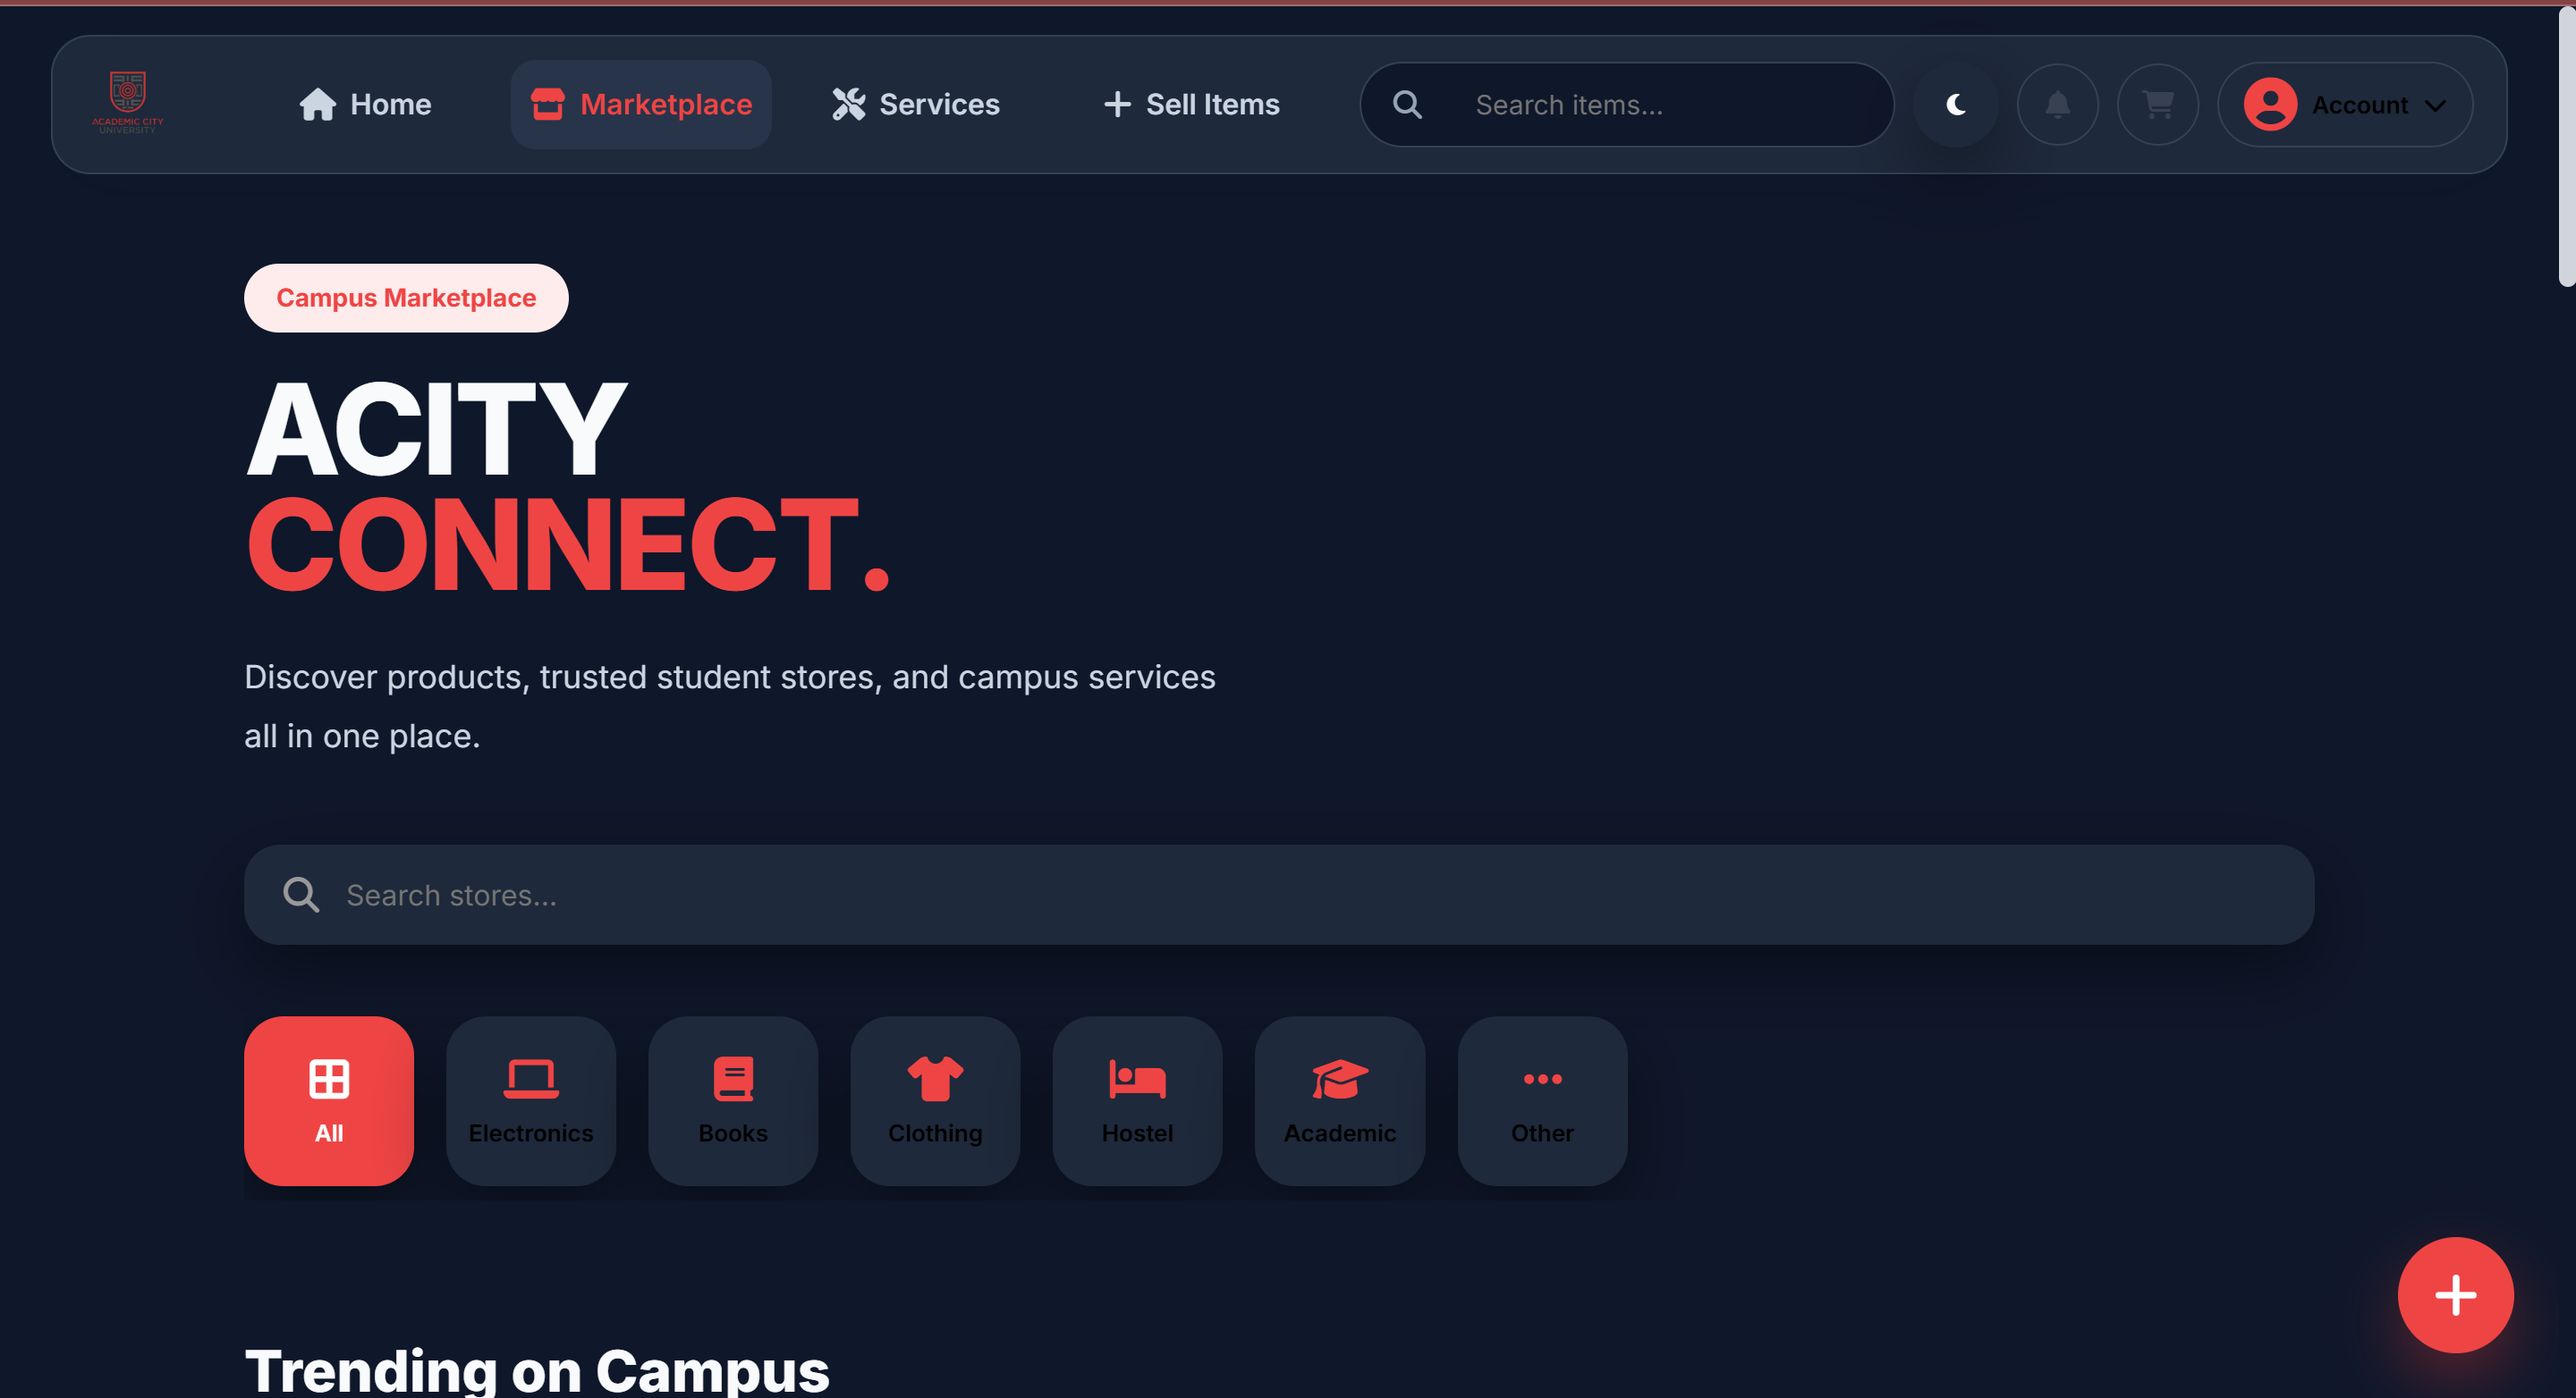
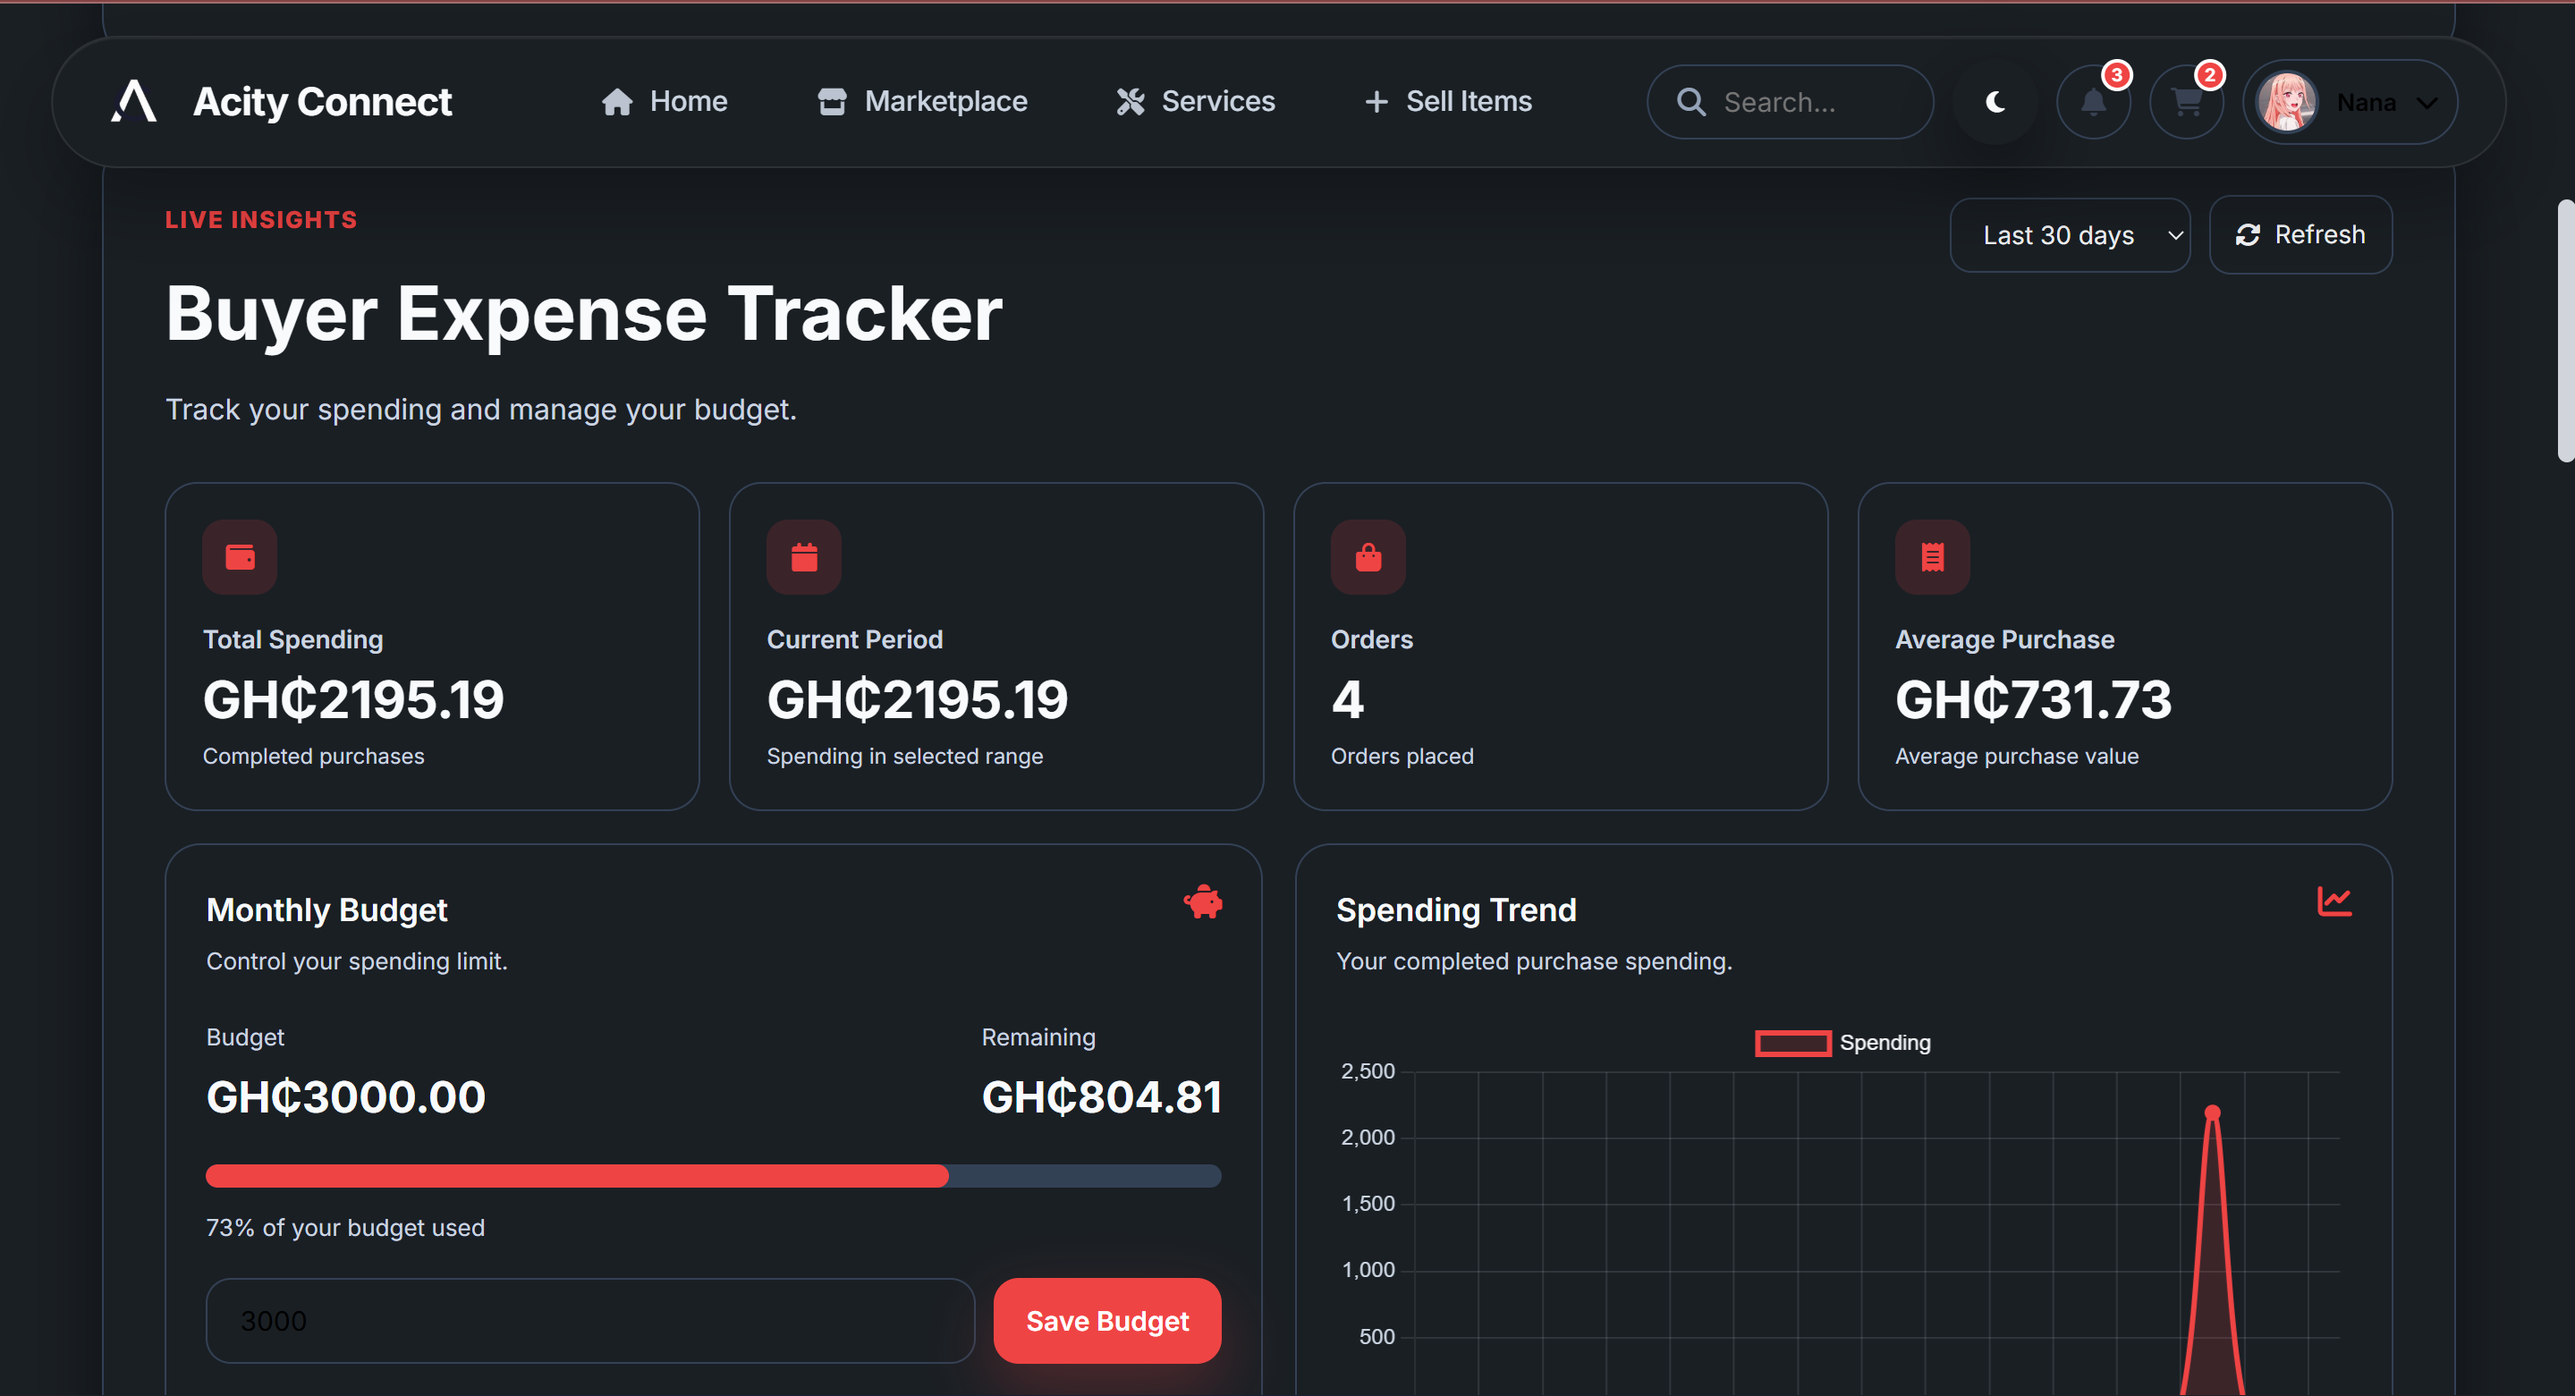
few changes

diff --git a/create-listing.html b/create-listing.html
@@ -133,126 +133,202 @@
     <i class="fa-solid fa-bars"></i>
 </button>
 </nav>
-<div class="mobile-links">
+<div
+    class="mobile-overlay"
+    id="mobileOverlay"
+></div>
+
+<div
+    class="mobile-menu"
+    id="mobileMenu"
+>
+    <div class="mobile-menu-header">
+        <div class="mobile-profile">
+            <div class="mobile-avatar">
+                <img
+                    id="mobileProfileImage"
+                    src="images/default-avatar-image.jpg"
+                    alt="Profile"
+                >
+            </div>
+
+            <div>
+                <h3 id="mobileUserName">
+                    Welcome
+                </h3>
+
+                <small id="mobileUserSubtitle">
+                    Sign in or create an account
+                </small>
+            </div>
+        </div>
+
+        <button
+            id="closeMenu"
+            class="close-menu"
+            type="button"
+        >
+            <i class="fa-solid fa-xmark"></i>
+        </button>
+    </div>
+
+    <div class="mobile-links">
+
         <a href="index.html">
             <i class="fa-solid fa-house"></i>
             Home
         </a>
-        <a href="login.html" id="mobileLoginLink" style="display:none;">
+
+        <a
+            href="login.html"
+            id="mobileLoginLink"
+            style="display:none;"
+        >
             <i class="fa-solid fa-right-to-bracket"></i>
             Login
         </a>
 
-        <a href="register.html" id="mobileRegisterLink" style="display:none;">
+        <a
+            href="register.html"
+            id="mobileRegisterLink"
+            style="display:none;"
+        >
             <i class="fa-solid fa-user-plus"></i>
             Register
         </a>
+
         <hr>
+
         <a href="marketplace.html">
             <i class="fa-solid fa-store"></i>
             Marketplace
         </a>
+
         <a href="services.html">
             <i class="fa-solid fa-screwdriver-wrench"></i>
             Skills Connect
         </a>
-        <a href="create-listing.html" id="mobileCreateListingLink" >
+
+        <a
+            href="create-listing.html"
+            id="mobileCreateListingLink"
+        >
             <i class="fa-solid fa-plus"></i>
             Sell Item
         </a>
-        <hr>
-        <a href="inbox.html" id="mobileInboxLink" >
-            <i class="fa-solid fa-comments"></i>
-            Inbox
-            <small id="mobileMessageCount"></small>
-        </a>
-        <a href="notifications.html" id="mobileNotificationsLink" >
-            <i class="fa-solid fa-bell"></i>
-            Notifications
-            <small id="mobileNotificationCount"></small>
-        </a>
-        <a href="myCart.html" id="mobileCartLink" >
-            <i class="fa-solid fa-cart-shopping"></i>
-            My Cart
-            <small id="mobileCartCount"></small>
-        </a>
+
         <a href="orders.html">
             <i class="fa-solid fa-box"></i>
             My Orders
         </a>
+
         <a
             href="incoming-orders.html"
-            id="mobileIncomingOrdersLink"
             data-seller-only
         >
-            <i class="fa-solid fa-inbox"></i>
+            <i class="fa-solid fa-truck"></i>
             Incoming Orders
         </a>
-        <div class="mobile-theme">
-        <button
-            id="appearanceBtn"
-            class="appearance-btn"
-        >
-            <div class="appearance-left">
-                <i class="fa-solid fa-circle-half-stroke"></i>
-                <span>Appearance</span>
-            </div>
-            <i class="fa-solid fa-chevron-right"></i>
-        </button>
-        <div
-            id="appearanceMenu"
-            class="appearance-menu"
-        >
-            <div
-                class="theme-option"
-                data-theme="light"
-            >
-                <i class="fa-solid fa-sun"></i>
-                <span>Light</span>
-                <i class="fa-solid fa-check check"></i>
-            </div>
-            <div
-                class="theme-option"
-                data-theme="dark"
-            >
-                <i class="fa-solid fa-moon"></i>
-                <span>Dark</span>
-                <i class="fa-solid fa-check check"></i>
-            </div>
-            <div
-                class="theme-option"
-                data-theme="system"
-            >
-                <i class="fa-solid fa-desktop"></i>
-                <span>System</span>
-                <i class="fa-solid fa-check check"></i>
-            </div>
-        </div>
-        </div>
-        <div>
 
-        
-        <a href="profile.html" id="mobileProfileLink">
+        <hr>
+
+        <a
+            href="inbox.html"
+            id="mobileInboxLink"
+        >
+            <i class="fa-solid fa-comments"></i>
+            Inbox
+            <small id="mobileMessageCount"></small>
+        </a>
+
+        <a
+            href="notifications.html"
+            id="mobileNotificationsLink"
+        >
+            <i class="fa-solid fa-bell"></i>
+            Notifications
+            <small id="mobileNotificationCount"></small>
+        </a>
+
+        <a
+            href="myCart.html"
+            id="mobileCartLink"
+        >
+            <i class="fa-solid fa-cart-shopping"></i>
+            My Cart
+            <small id="mobileCartCount"></small>
+        </a>
+
+        <div class="mobile-theme">
+            <button
+                id="appearanceBtn"
+                class="appearance-btn"
+                type="button"
+            >
+                <div class="appearance-left">
+                    <i class="fa-solid fa-circle-half-stroke"></i>
+                    <span>Appearance</span>
+                </div>
+
+                <i class="fa-solid fa-chevron-right"></i>
+            </button>
+
+            <div
+                id="appearanceMenu"
+                class="appearance-menu"
+            >
+                <div
+                    class="theme-option"
+                    data-theme="light"
+                >
+                    <i class="fa-solid fa-sun"></i>
+                    <span>Light</span>
+                    <i class="fa-solid fa-check check"></i>
+                </div>
+
+                <div
+                    class="theme-option"
+                    data-theme="dark"
+                >
+                    <i class="fa-solid fa-moon"></i>
+                    <span>Dark</span>
+                    <i class="fa-solid fa-check check"></i>
+                </div>
+
+                <div
+                    class="theme-option"
+                    data-theme="system"
+                >
+                    <i class="fa-solid fa-desktop"></i>
+                    <span>System</span>
+                    <i class="fa-solid fa-check check"></i>
+                </div>
+            </div>
+        </div>
+
+        <a
+            href="profile.html"
+            id="mobileProfileLink"
+        >
             <i class="fa-solid fa-user"></i>
             Profile
         </a>
-        <a
-            href="admin.html"
-            id="mobileAdminLink"
-            style="display:none;"
-        >
-            <i class="fa-solid fa-shield-halved"></i>
-            Admin
-        </a>
+
         <hr>
-        <a href="#" id="mobileLogoutLink" onclick="logout()">
+
+        <a
+            href="#"
+            id="mobileLogoutLink"
+            onclick="logout(); return false;"
+        >
             <i class="fa-solid fa-right-from-bracket"></i>
             Logout
         </a>
-        </div>
+
     </div>
 </div>
-<div class="mobile-overlay" id="mobileOverlay"></div>    <section class="create-page" id="createListingPage">
+<div class="mobile-overlay" id="mobileOverlay"></div> 
+<section class="create-page" id="createListingPage">
     <div class="create-header">
         <div class="create-icon">
             <i class="fa-solid fa-box-open"></i>

diff --git a/index.html b/index.html
@@ -283,8 +283,8 @@
                 <div class="card-glass-glow"></div>
                 <img src="images/marketplace-preview.png" alt="Marketplace Preview" class="mockup-img">
             </div>
-            <div class="floating-badge badge-1"><i class="fa-solid fa-store"></i> <span>100+ Listings</span></div>
-            <div class="floating-badge badge-2"><i class="fa-solid fa-screwdriver-wrench"></i> <span>Skills Connect</span></div>
+            <div class="floating-badge badge-1"><i class="fa-solid fa-wallet"></i> <span>Buyer expense tracker</span></div>
+            <div class="floating-badge badge-2"><i class="fa-solid fa-chart-line"></i> <span>Seller Analytics</span></div>
         </div>
     </section>
 
